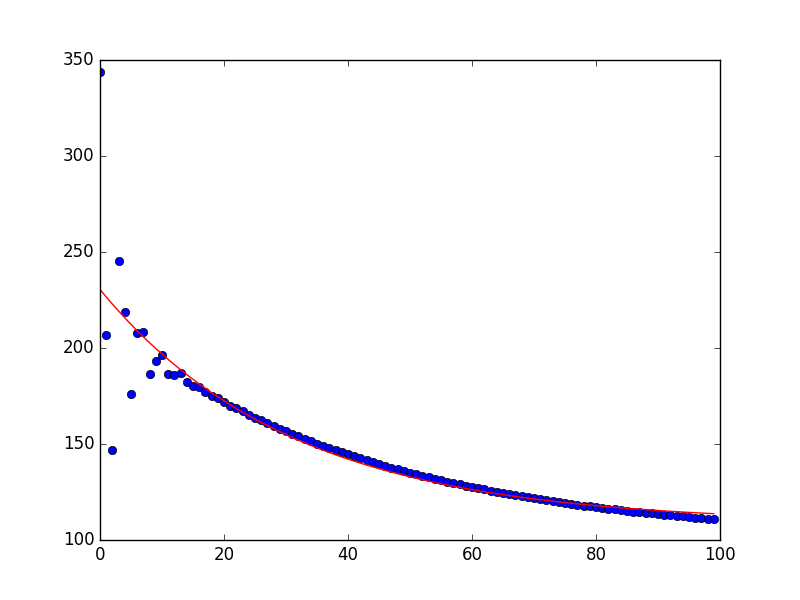
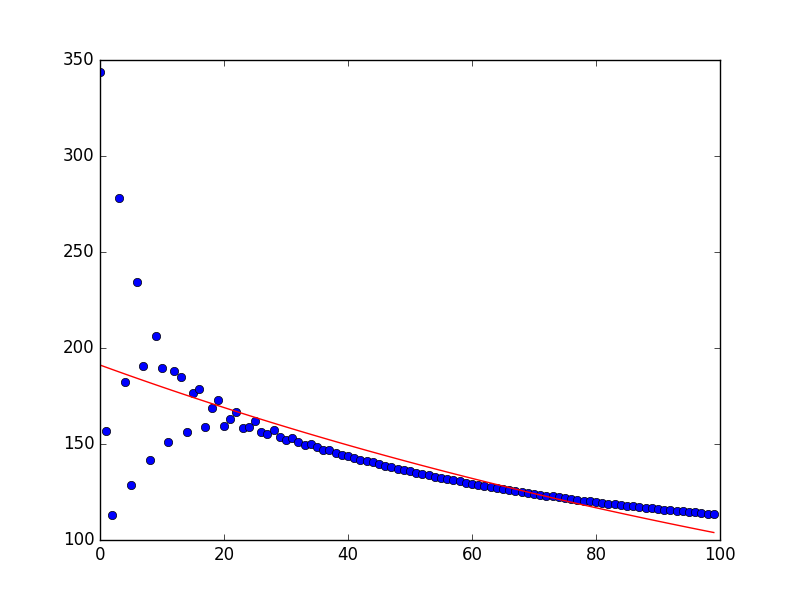
small changes to lmfit script

diff --git a/bin/lmtest.py b/bin/lmtest.py
@@ -3,23 +3,24 @@
 import numpy as np
 import matplotlib.pyplot as plt
 
-from lmfit.models import ExpressionModel
+from lmfit.models import ExpressionModel, ExponentialGaussianModel
 from lmfit import Parameter
 
 from control import PIDcontroller
 
-pid = PIDcontroller(KP=0.1, KI=0.095, KD=0.0)
+pid = PIDcontroller(KP=0.14, KI=0.095, KD=0.0)
 #pid.loud = True
 #pid.tune(0.072, 4.76, steps=10, pmx=(0.01, 0.1),imx=(0.01, 0.01), dmx=(0.0, 0.0))
 
-#x, y = pid.do_sim(0.072, 4.76, horiz_return=False, length=20, manual_sample_time=0.1)
 x, y = pid.do_sim(1, 1, horiz_return=False, length=100, manual_sample_time=0.1)
 
 #gmod = ExpressionModel("a*(sin(3.14159 * omega * x) * exp(-tau * x)) + offset")
 #result = gmod.fit(y, a=10, omega=-1, x=x, tau=Parameter('tau', 0.2, vary=False), offset=0.04726)
-gmod= ExpressionModel("(H * exp(-t * x)) + voff")
-result = gmod.fit(y, H=250, t=0.2, x=x, voff=100)
+#gmod= ExpressionModel("(H * exp(-t * x)) + voff")
+#result = gmod.fit(y, H=250, t=0.2, x=x, voff=100)
 
+modl = ExponentialGaussianModel()
+result = modl.fit(y, amplitude=175, center=20, sigma=0.5, gamma=0.25, x=x)
 print(result.fit_report())
 
 plt.plot(x, y, 'bo')

diff --git a/bin/test scripts/speed_control_test.py b/bin/test scripts/speed_control_test.py
@@ -11,23 +11,11 @@ import motor
 import control as cl
 import time
 
-# Get log directory name
-print "Enter the log directory name:"
-print "(Or leave blank for default)"
-
-r = raw_input()
-
-if r == "":
-    r = "./eval_speed_control_test"
-else:
-    r = "./" + r
-
 # Create instance of motor class
-mot = motor.motor(startnow=True, poll_logging=True, log_dir=r)
-#mot = motor.motor(startnow=True, poll_logging=True, log_dir=r, filtering="butter")
+mot = motor.motor(startnow=True, poll_logging=True, log_dir="./eval_speed_control_test", filtering="butter")
 
 # Create instance of controller class
-controller = cl.PIDcontroller(KP=1, KI=1, sample_time=0.1)
+controller = cl.PIDcontroller(KP=0.4, KI=9, sample_time=0.1)
 
 # Get setpoint
 print "Enter set point motor speed (in RPM):"
